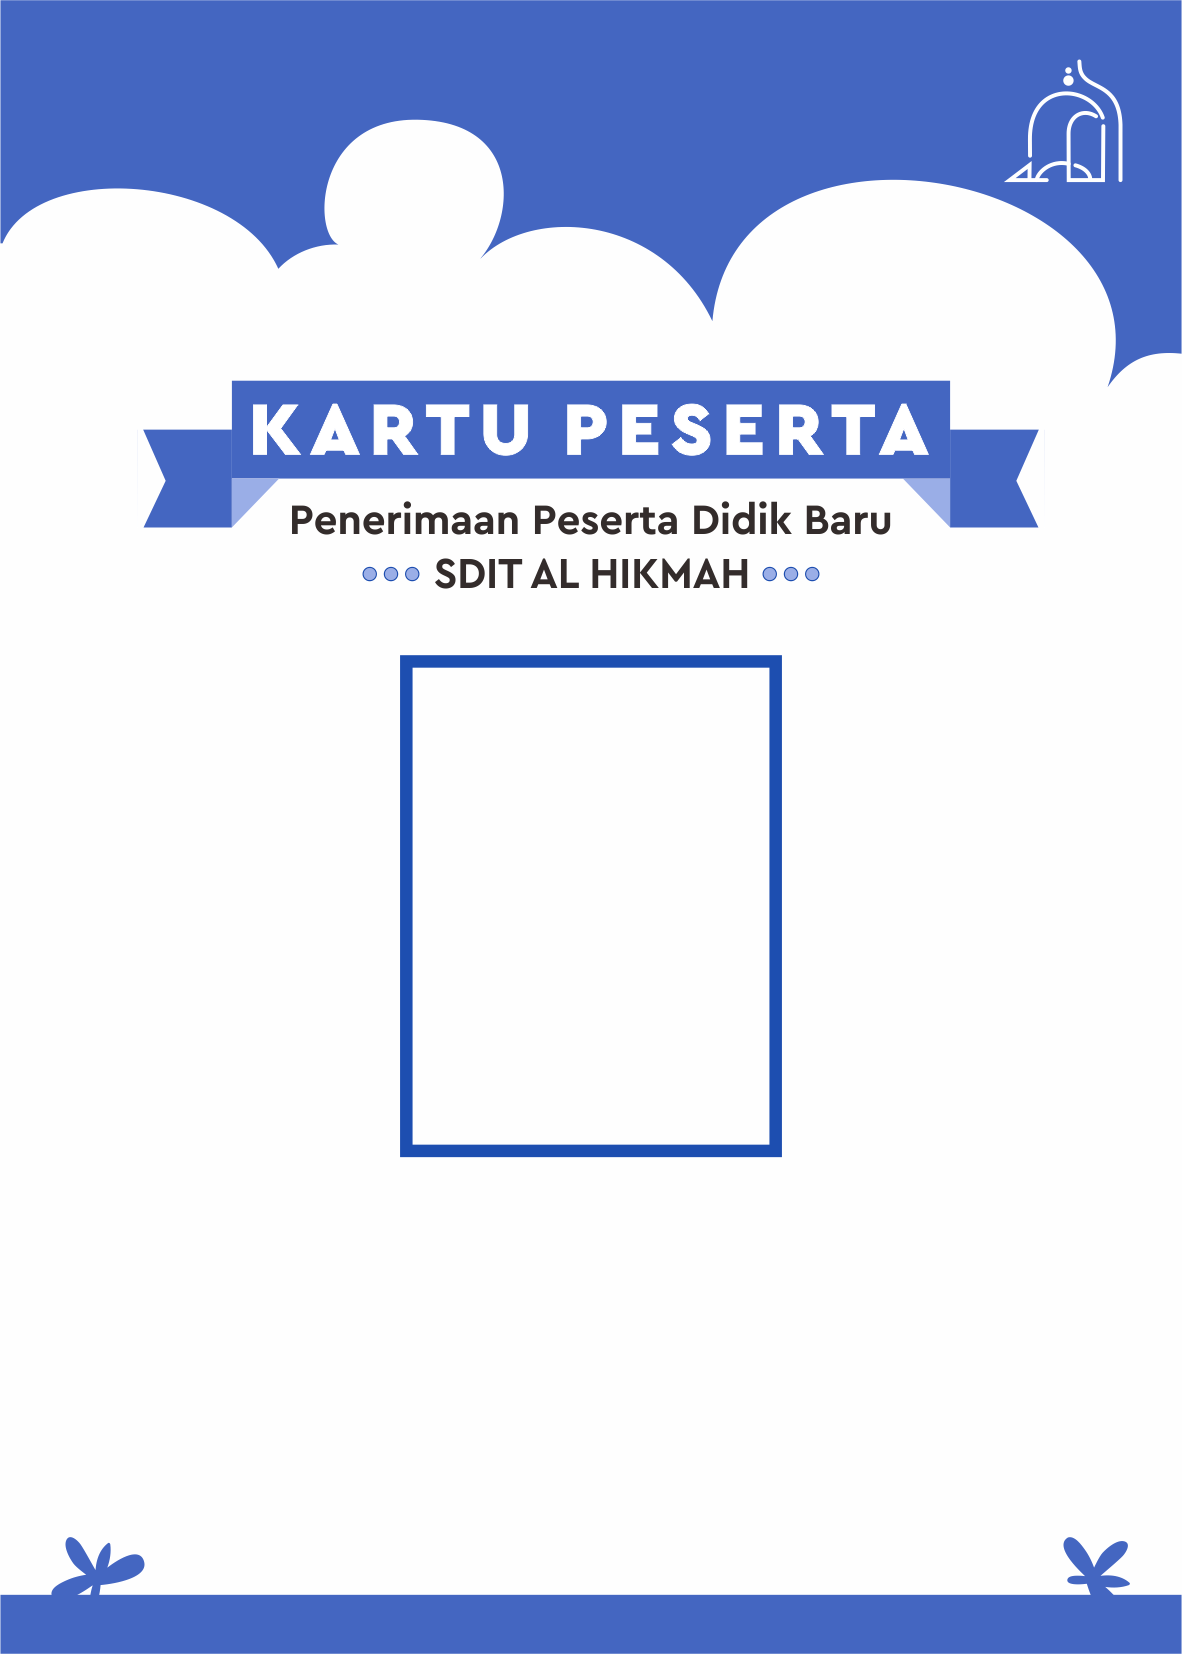
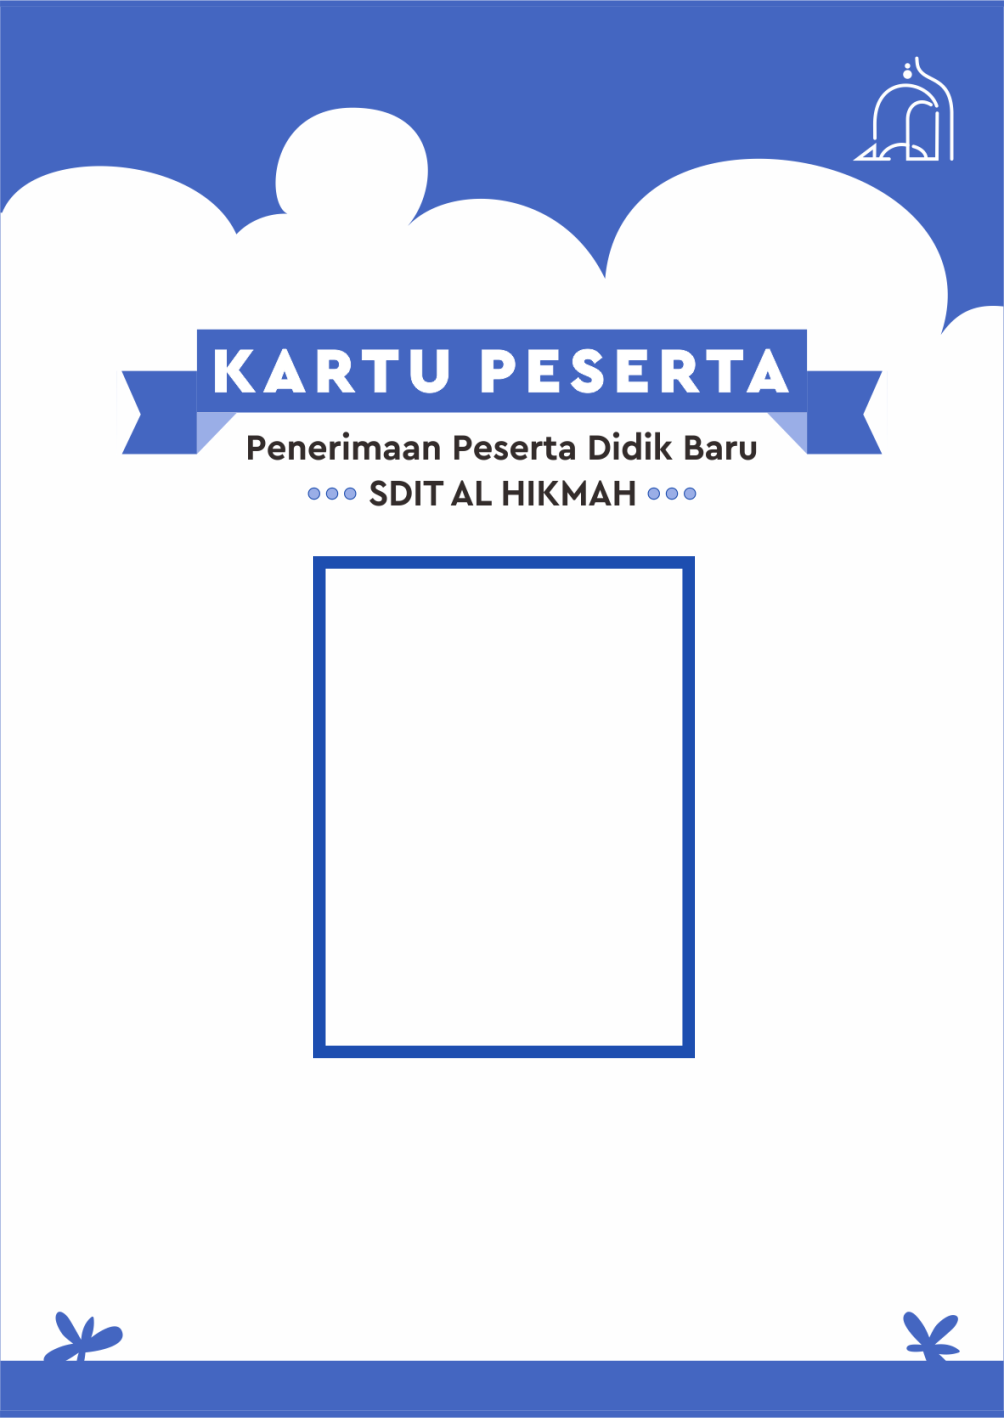
update kartu ujian

diff --git a/ppdb/application/views/inner/karu.php b/ppdb/application/views/inner/karu.php
@@ -40,9 +40,9 @@
 		}
 		.kartuujian {
 			border: 1px solid white;
-			height:14cm;
+			height:12cm;
 			padding:0 0 0 0;
-			width:10cm;
+			width:8.5cm;
 			background-image:url('<?= base_url('') ?>assets/img/bg-kartu-ujian.png');
 			background-size:100%;
             background-repeat: no-repeat;
@@ -52,8 +52,8 @@
 			position: relative;
 			margin-left: 25%;
 			border: 1px dashed black;
-			height:14.07cm;
-			width:10.07cm;
+			height: 12.07cm;
+			width: 8.57cm;
 		}
 		.cut {
 			margin-left: 24%;
@@ -65,25 +65,32 @@
 
 <body>
 	<div class="container">
-	<h3><span style="color:red;">PRINT A4</span>, Gunting pada garis putus-putus dan laminating / gunakan name tag lalu bawa ketika akan melaksanakan ujian.</h3>
+	<h3><span style="color:red;">PRINT A4</span>, Gunting Garis Putus-Putus, Dibawa Ketika Mengikuti Seleksi.</h3>
 		<img src="<?= base_url('assets/img/cut.png') ?>" alt="" class="cut">
 		<div class="potong">
 			<div class="kartuujian">
-				<div style="height: 4cm; width: 3cm; margin-left: 132.3px; overflow: hidden; position: relative;margin-top: 214.3px; border-radius: 5px;">
+				<div style="height: 4cm; width: 3cm; margin-left: 104.4px; overflow: hidden; position: relative;margin-top: 182.6px; border-radius: 5px;">
 					<img style="position: absolute; left: -1090.8%; right: -1092%; top: -1000%; bottom: -1000%; margin: auto; height: 4cm; width: 3cm; border-radius: 5px;" src="<?= base_url('upload/img/'.$foto->img) ?>">
 				</div>
-				<div class="noujian"><b>20XXX</b></div>
+				<div class="noujian"><b><?= $siswa->noujian ?></b></div>
 				<div class="nama"><b><?= $siswa->nama." / ".$siswa->jenkel ?></b></div>
 				<div class="asal-sekolah"><b><?= $siswa->asal_sekolah ?></b></div>
 			</div>
 		</div>
 
-		<h3 style="color:red">Penting!</h3>
-		<p><b>Kartu Ujian : </b> Ini adalah kartu ujian anda, kartu ujian yang diperuntukkan bagi anak. </p>
-		<p><b>Registrasi Kedatangan : </b> Registrasi kedatangan dilakukan saat mengikuti ujian, siapkan kartu ujian dengan QR Code yang telah di print. </p>
-		<p><b>Perlengkapan : </b> Bawalah alat tulis dan Papan jalan, 
-		<p><b>Lokasi Ujian : </b> SDIT Al Hikmah
-		<p><b>Waktu Ujian : </b> Ujian pukul 07.30 WIB s/d Selesai
+		<h1 style="color:red">Penting!</h1>
+		<h3><b style="color:red">Name Tag Plastik Akan Diberikan Ketika Registrasi Saat Hari Pelaksanaan Ujian</b> <br><br>
+		<u>Harap Konfirmasi Kedatangan Pada WhatsApp Berikut : <b style="color:red">0878-8331-0048</b> dan <b style="color:red">0812-8346-1881</b></u> <br><br>
+		<b>Perlengkapan : </b> <br>
+			<ul>
+				<li>1. Pensil</li>
+				<li>2. Pensil Warna (Krayon)</li>
+				<li>3. Penghapus</li>
+				<li>4. Rautan</li>
+			</ul>  
+		<b>Pakaian 		: </b> Seragam TK atau Bebas (Menutupi Aurat) <br>
+		<b>Lokasi Ujian : </b> SDIT Al Hikmah <br>
+		<b>Waktu Ujian 	: </b> Ujian pukul 07.30 WIB s/d 11.00 WIB</h3>
 	</div>
 </body>
 </html>

diff --git a/ppdb/application/views/inner/dashboard.php b/ppdb/application/views/inner/dashboard.php
@@ -54,7 +54,7 @@
                 </div>
             </div>
         </div>
-        <div class="col-xl-6">
+        <!-- <div class="col-xl-6">
             <div class="card shadow card-stats mb-4 text-center">
                 <div class="card-header bg-secondary">
                     <h5 class="card-title text-uppercase text-muted m-0">Metode Pembayaran</h5> 
@@ -79,10 +79,10 @@
                     </form>
                 </div>
             </div>
-        </div>
+        </div> -->
 
-        <?php if($anak->metode_pembayaran == "transfer"): ?>
-        <div class="col-xl-6" id="modalKonfirmasi">
+        <?php //if($anak->metode_pembayaran == "transfer"): ?>
+        <!-- <div class="col-xl-6" id="modalKonfirmasi">
             <div class="card shadow card-stats mb-4 text-center">
                 <div class="card-header bg-secondary">
                     <h5 class="card-title text-uppercase text-muted m-0">Konfirmasi Pembayaran</h5> 
@@ -99,9 +99,9 @@
                     <button class="btn btn-sm btn-block btn-primary" type="btn" data-toggle="modal" data-target="#konfirmasi">Konfirmasi Pembayaran</button>
                 </div>
             </div>
-        </div>
+        </div> -->
         <!-- Modal Konfirmasi Pembayaran -->
-        <div class="modal fade" id="konfirmasi" tabindex="-1" role="dialog" aria-labelledby="exampleModalLabel" aria-hidden="true">
+        <!-- <div class="modal fade" id="konfirmasi" tabindex="-1" role="dialog" aria-labelledby="exampleModalLabel" aria-hidden="true">
             <div class="modal-dialog" role="document">
                 <div class="modal-content">
                     <div class="modal-header bg-secondary">
@@ -128,6 +128,6 @@
                     </form>
                 </div>
             </div>
-        </div>
-        <?php endif; ?>
+        </div> -->
+        <?php //endif; ?>
     </div>
